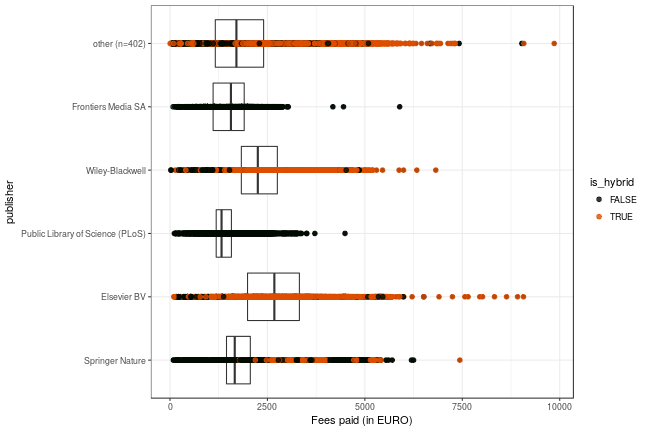
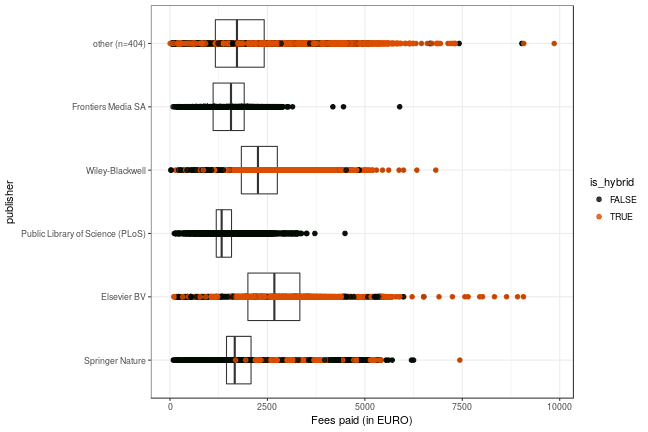
post: wellcome data 2017

diff --git a/_posts/2018-11-16-wellcome.md b/_posts/2018-11-16-wellcome.md
@@ -1,0 +1,108 @@
+---
+layout:     post
+author:     Christoph Broschinski
+title:      Additional Wellcome Trust/COAF data (2016-2017) included
+date:       2018-11-16 07:00:00
+summary:    
+categories: [general, openAPC]
+comments: true
+---
+
+
+
+
+In 2014 the [Wellcome Trust](https://wellcome.ac.uk/) started to make APC expenditures of the [COAF](https://wellcome.ac.uk/funding/guidance/charity-open-access-fund) publicly available. 
+The [most recent data set](https://doi.org/10.6084/m9.figshare.6205376) has now been processed and added to OpenAPC's data collection.
+
+## About the dataset
+
+The dataset contributed by the Wellcome Trust contains information on publication fees covering a time span from October 2016 to September 2017 (OpenAPC treats this data as having all been processed in the 2017 period).
+
+## Cost Data
+
+
+
+The new dataset covers publication fees for 1,170 articles. Total expenditure amounts to 2 715 312€ and the average fee is 2 321€.
+
+The following table shows the payments COAF has made to publishers in 2017 (including taxes and discounts).
+
+
+|                                                                      | Articles| Fees paid in EURO| Mean Fee paid|
+|:---------------------------------------------------------------------|--------:|-----------------:|-------------:|
+|Elsevier BV                                                           |      245|            684505|          2794|
+|Springer Nature                                                       |      195|            417806|          2143|
+|Wiley-Blackwell                                                       |      179|            391555|          2187|
+|Public Library of Science (PLoS)                                      |       96|            151130|          1574|
+|Oxford University Press (OUP)                                         |       91|            230551|          2534|
+|BMJ                                                                   |       65|            150094|          2309|
+|Ovid Technologies (Wolters Kluwer Health)                             |       35|            113895|          3254|
+|Informa UK Limited                                                    |       19|             21421|          1127|
+|American Society for Biochemistry & Molecular Biology (ASBMB)         |       17|             27736|          1632|
+|American Chemical Society (ACS)                                       |       14|             35703|          2550|
+|Impact Journals, LLC                                                  |       14|             36371|          2598|
+|The Company of Biologists                                             |       13|             35831|          2756|
+|Frontiers Media SA                                                    |       12|             16654|          1388|
+|SAGE Publications                                                     |       11|             10164|           924|
+|Cambridge University Press (CUP)                                      |       10|             23726|          2373|
+|Society for Neuroscience                                              |       10|             28199|          2820|
+|The Royal Society                                                     |       10|             16733|          1673|
+|Portland Press Ltd.                                                   |        8|             16877|          2110|
+|The Endocrine Society                                                 |        8|             23805|          2976|
+|American Society for Microbiology                                     |        7|             16754|          2393|
+|Cold Spring Harbor Laboratory Press                                   |        6|             11448|          1908|
+|American Physiological Society                                        |        5|              9454|          1891|
+|Hindawi Publishing Corporation                                        |        5|              6755|          1351|
+|Informa Healthcare                                                    |        5|             10917|          2183|
+|IOP Publishing                                                        |        5|             11707|          2341|
+|Johns Hopkins University Press                                        |        5|             12711|          2542|
+|Mary Ann Liebert Inc                                                  |        5|             13612|          2722|
+|MyJove Corporation                                                    |        5|             16182|          3236|
+|EMBO                                                                  |        4|             13129|          3282|
+|JMIR Publications Inc.                                                |        4|              6973|          1743|
+|Royal Society of Chemistry (RSC)                                      |        4|              7492|          1873|
+|American Psychological Association (APA)                              |        3|             10597|          3532|
+|British Institute of Radiology                                        |        3|              7575|          2525|
+|Future Science, LTD                                                   |        3|             10529|          3510|
+|Genetics Society of America                                           |        3|              5579|          1860|
+|International Union Against Tuberculosis and Lung Disease             |        3|              4337|          1446|
+|MDPI AG                                                               |        3|              4521|          1507|
+|Royal College of Psychiatrists                                        |        3|             10329|          3443|
+|S. Karger AG                                                          |        3|              9591|          3197|
+|The American Association of Immunologists                             |        3|              5982|          1994|
+|American Society for Clinical Investigation                           |        2|              6286|          3143|
+|American Society for Nutrition                                        |        2|              9678|          4839|
+|American Society of Clinical Oncology (ASCO)                          |        2|              7583|          3792|
+|Association for Research in Vision and Ophthalmology (ARVO)           |        2|              3162|          1581|
+|Future Medicine Ltd                                                   |        2|              4917|          2458|
+|Microbiology Society                                                  |        2|              4440|          2220|
+|Proceedings of the National Academy of Sciences                       |        2|              3838|          1919|
+|Royal College of General Practitioners                                |        2|              5509|          2754|
+|American Association for Cancer Research (AACR)                       |        1|              2450|          2450|
+|American Association for the Advancement of Science (AAAS)            |        1|              1067|          1067|
+|American Diabetes Association                                         |        1|              1722|          1722|
+|American Physical Society (APS)                                       |        1|              2465|          2465|
+|American Society for Pharmacology & Experimental Therapeutics (ASPET) |        1|              2788|          2788|
+|American Society of Nephrology (ASN)                                  |        1|              2845|          2845|
+|American Speech Language Hearing Association                          |        1|              2386|          2386|
+|BioScientifica                                                        |        1|              1859|          1859|
+|Edinburgh University Global Health Society                            |        1|               402|           402|
+|European Respiratory Society (ERS)                                    |        1|              1717|          1717|
+|FASEB                                                                 |        1|              5072|          5072|
+|International Union of Crystallography (IUCr)                         |        1|              2312|          2312|
+|Paris Legal Publishers                                                |        1|               964|           964|
+|Schattauer GmbH                                                       |        1|              2334|          2334|
+|Shared Science Publishers OG                                          |        1|               588|           588|
+
+With the recent contributions included, the overall APC data for the Wellcome Trust which has been added to OpenAPC up to this point looks as follows: 
+
+### Fees paid per publisher (in EURO)
+
+![plot of chunk tree_wellcome_2018_11_16_full](/figure/tree_wellcome_2018_11_16_full-1.png)
+
+###  Average costs per year (in EURO)
+
+![plot of chunk box_wellcome_2018_11_16_year_full](/figure/box_wellcome_2018_11_16_year_full-1.png)
+
+###  Average costs per publisher (in EURO)
+
+![plot of chunk box_wellcome_2018_11_16_publisher_full](/figure/box_wellcome_2018_11_16_publisher_full-1.png)

diff --git a/about.md b/about.md
@@ -286,13 +286,13 @@ Jisc Collections released data on APC payments made by UK higher education insti
 
 Information on both open access journal articles and open access publication of articles in toll-access journals ("hybrid") are provided.
 
-In total,  136 350 895 € for  69 215 articles were paid by the participating unviversities. Average  fee is 1 970 € and the median 1 779 €.
+In total,  139 478 637 € for  70 430 articles were paid by the participating unviversities. Average  fee is 1 980.4 € and the median 1 792 €.
 
 ### Open Access Journals
 
 
 
-At the moment, the dataset releases information on 38 514 articles in open access journals which charge publication fees. Total expenditure amounts to  59 511 979 €. Average  fee is 1 545.2 € and the median 1 453 €.
+At the moment, the dataset releases information on 38 901 articles in open access journals which charge publication fees. Total expenditure amounts to  60 361 113 €. Average  fee is 1 551.7 € and the median 1 457 €.
 
 View dataset on [GitHub](https://github.com/OpenAPC/openapc-de/blob/master/data/apc_de.csv).
 
@@ -508,7 +508,7 @@ View dataset on [GitHub](https://github.com/OpenAPC/openapc-de/blob/master/data/
 |Vestre Viken Hospital Trust                                     |        4|             5,796|         1,449|  1,555|
 |Virginia Tech                                                   |      153|           165,423|         1,081|  1,216|
 |Weierstrass Institute for Applied Analysis and Stochastics      |       NA|                NA|            NA|     NA|
-|Wellcome Trust                                                  |    1,014|         1,779,474|         1,755|  1,604|
+|Wellcome Trust                                                  |    1,401|         2,628,608|         1,876|  1,662|
 |Wuerzburg U                                                     |      686|           959,500|         1,399|  1,436|
 
 ### Hybrid articles
@@ -516,7 +516,7 @@ View dataset on [GitHub](https://github.com/OpenAPC/openapc-de/blob/master/data/
 
 
 In many toll-access journals some of the articles are open access after a fee has been paid. This model is often called "hybrid open access".
-The dataset covers 30 701 hybrid open access articles. Total expenditure amounts to  76 838 916 €. Average  fee is 2 502.8 € and the median 2 446 €.
+The dataset covers 31 529 hybrid open access articles. Total expenditure amounts to  79 117 524 €. Average  fee is 2 509.4 € and the median 2 453 €.
 
 The following institutions have contributed its expenditures for hybrid open access.
 
@@ -658,7 +658,7 @@ The following institutions have contributed its expenditures for hybrid open acc
 |Uppsala University                                          |       26|            53,226|         2,047|  2,132|
 |Virginia Tech                                               |       14|            20,480|         1,463|  1,256|
 |Weierstrass Institute for Applied Analysis and Stochastics  |        2|             4,870|         2,435|  2,435|
-|Wellcome Trust                                              |    2,764|         7,113,008|         2,573|  2,565|
+|Wellcome Trust                                              |    3,592|         9,391,616|         2,615|  2,584|
 
 ## Use of external sources
 
